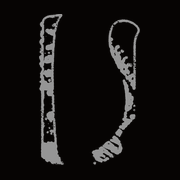
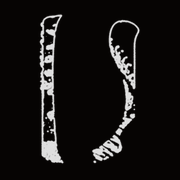
the symbol as a rubbing: bone beside the name, 224 alone
The header symbol is now the traced print of the mark, its outline with the erosion inside, at bone 206 on every page; the pale stamp is gone. Favicons and the touch icon carry the same print alone at 224. Heights unchanged: the tip still meets the top of the P.
Both tones derive from one master alpha lifted from a photographed print; the set, its manifest and the source live in _technical/symbol/traced outside the site.

Changed region(s): [[0.5, 0.0833, 0.7778, 0.9167], [0.1944, 0.0556, 0.3611, 0.9167]]

diff --git a/style.css b/style.css
@@ -201,7 +201,7 @@ footer { position: relative; margin-top: 6rem; }
 /* Logo */
 .logo-link { display: inline-flex; align-items: stretch; gap: 0; position: relative; }
 .logo-link:hover { color: inherit; }
-.logo-img { height: 45px; width: auto; margin-right: 2px; }  /* pale eroded symbol — tone is baked into the asset */
+.logo-img { height: 45px; width: auto; margin-right: 2px; }  /* traced symbol, bone 206 — tone is baked into the asset */
 @media (min-width: 768px) { .logo-img { height: 65px; } }
 @media (min-width: 1024px) { .logo-img { height: 73px; } }
 .logo-text-wrap { display: flex; flex-direction: column; justify-content: flex-start; gap: 0; padding-bottom: 0; }

diff --git a/404.html b/404.html
@@ -32,7 +32,7 @@
       </div>
       <div class="logo-block">
         <a href="/" class="logo-link">
-          <img width="469" height="696" src="assets/placidum-logo-pale.png" alt="Placidum Logo" class="logo-img">
+          <img width="570" height="837" src="assets/placidum-logo-bone.png" alt="Placidum Logo" class="logo-img">
           <div class="logo-text-wrap">
             <img width="1469" height="254" src="assets/placidum-wordmark.png" alt="PLACIDUM" class="logo-wordmark-img">
             <div class="logo-sea" aria-hidden="true"></div>

diff --git a/chronicles.html b/chronicles.html
@@ -37,7 +37,7 @@
       </div>
       <div class="logo-block">
         <a href="/" class="logo-link">
-          <img width="469" height="696" src="assets/placidum-logo-pale.png" alt="Placidum Logo" class="logo-img">
+          <img width="570" height="837" src="assets/placidum-logo-bone.png" alt="Placidum Logo" class="logo-img">
           <div class="logo-text-wrap">
             <img width="1469" height="254" src="assets/placidum-wordmark.png" alt="PLACIDUM" class="logo-wordmark-img">
             <div class="logo-sea" aria-hidden="true"></div>

diff --git a/corpus.html b/corpus.html
@@ -37,7 +37,7 @@
       </div>
       <div class="logo-block">
         <a href="/" class="logo-link">
-          <img width="469" height="696" src="assets/placidum-logo-pale.png" alt="Placidum Logo" class="logo-img">
+          <img width="570" height="837" src="assets/placidum-logo-bone.png" alt="Placidum Logo" class="logo-img">
           <div class="logo-text-wrap">
             <img width="1469" height="254" src="assets/placidum-wordmark.png" alt="PLACIDUM" class="logo-wordmark-img">
             <div class="logo-sea" aria-hidden="true"></div>

diff --git a/index.html b/index.html
@@ -75,7 +75,7 @@
       </div>
       <div class="logo-block">
         <a href="/" class="logo-link">
-          <img width="469" height="696" src="assets/placidum-logo-pale.png" alt="Placidum Logo" class="logo-img">
+          <img width="570" height="837" src="assets/placidum-logo-bone.png" alt="Placidum Logo" class="logo-img">
           <div class="logo-text-wrap">
             <img width="1469" height="254" src="assets/placidum-wordmark.png" alt="PLACIDUM" class="logo-wordmark-img">
             <div class="logo-sea" aria-hidden="true"></div>

diff --git a/premises.html b/premises.html
@@ -38,7 +38,7 @@
       </div>
       <div class="logo-block">
         <a href="/" class="logo-link">
-          <img width="469" height="696" src="assets/placidum-logo-pale.png" alt="Placidum Logo" class="logo-img">
+          <img width="570" height="837" src="assets/placidum-logo-bone.png" alt="Placidum Logo" class="logo-img">
           <div class="logo-text-wrap">
             <img width="1469" height="254" src="assets/placidum-wordmark.png" alt="PLACIDUM" class="logo-wordmark-img">
             <div class="logo-sea" aria-hidden="true"></div>

diff --git a/shcaa.html b/shcaa.html
@@ -36,7 +36,7 @@
       </div>
       <div class="logo-block">
         <a href="/" class="logo-link">
-          <img width="469" height="696" src="assets/placidum-logo-pale.png" alt="Placidum Logo" class="logo-img">
+          <img width="570" height="837" src="assets/placidum-logo-bone.png" alt="Placidum Logo" class="logo-img">
           <div class="logo-text-wrap">
             <img width="1469" height="254" src="assets/placidum-wordmark.png" alt="PLACIDUM" class="logo-wordmark-img">
             <div class="logo-sea" aria-hidden="true"></div>
